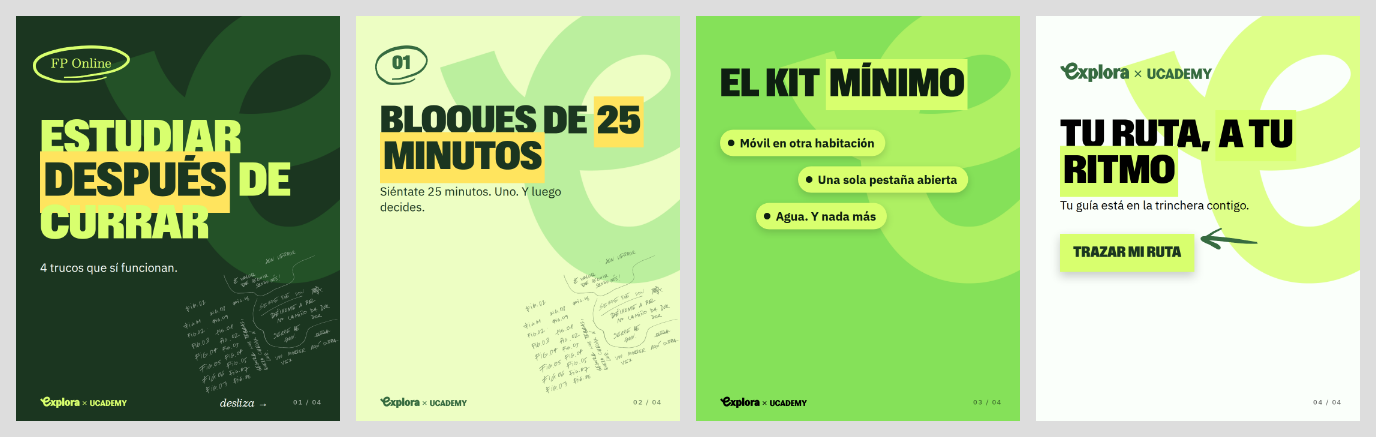
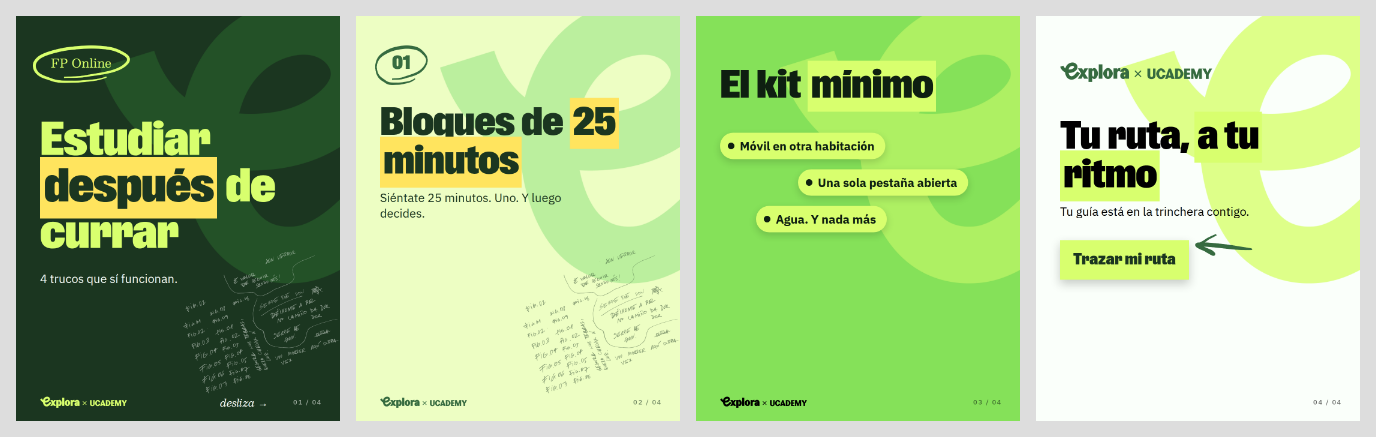
Portada de foto a sangre y titulares en minúscula salvo la inicial
Claude-Session: https://claude.ai/code/session_01H4umwBxSUscNV4SSyo8Euv

diff --git a/carruseles/render.js b/carruseles/render.js
@@ -115,7 +115,7 @@ function cuaderno(s) {
   }
 }
 
-// POSTER: titular gigante en mayúsculas, isotipo enorme de fondo, foto recortada en diagonal, píldoras.
+// POSTER: titular gigante, isotipo enorme de fondo, foto recortada en diagonal, píldoras.
 function poster(s) {
   const deco = s.decoracion === "ninguna" ? "" : `<i class="deco-isotipo"></i>`;
   const foto = s.imagen ? `<img class="foto-diagonal" src="${rutaImagen(s)}" alt="">` : (s.decoracion === "ninguna" ? "" : `<i class="deco-notas"></i>`);
@@ -137,6 +137,13 @@ function poster(s) {
 }
 
 const COMPOSICION = { capas, cuaderno, poster };
+
+// Portada de foto a sangre (como el feed actual): vale para cualquier plantilla con `marco: fondo`.
+const portadaFoto = (s, color) =>
+  `<img class="foto-fondo" src="${rutaImagen(s)}" alt=""><div class="velo"></div>` +
+  `<img class="logo-foto" src="${logo("Verde 03")}" alt="Explora × Ucademy">` +
+  si(s.etiqueta, `<div class="pastilla">${fmt(s.etiqueta)}</div>`) +
+  `<div class="bloque-foto">${titulo(s.titulo, "h1")}${sub(s.subtitulo)}</div>`;
 const logo = (color) => {
   const f = [".png", ".webp", ".svg"].map((e) => join(RAIZ, "assets/logos", `Explora x Ucademy_Horizontal_${color} 1${e}`)).find(existsSync);
   if (!f) throw new Error(`falta el logo Explora x Ucademy_Horizontal_${color} 1 en assets/logos/`);
@@ -145,6 +152,7 @@ const logo = (color) => {
 
 function html(plantilla, color, s, i, total, etiquetaCinta) {
   s._color = color;
+  const fondoFoto = s.tipo === "portada" && s.imagen && s.marco === "fondo";
   const marca = (c) => `<img src="${logo(c)}" alt="Explora × Ucademy">`;
   const pag = `${si(etiquetaCinta, `${esc(etiquetaCinta)} · `)}${dos(i + 1)}`;
   const derecha = s.tipo === "cierre" && s.cinta ? `<span class="cinta-cta">${fmt(s.cinta)}</span>` : `<span class="pag">${pag}</span>`;
@@ -153,9 +161,9 @@ function html(plantilla, color, s, i, total, etiquetaCinta) {
 <link rel="stylesheet" href="${archivo(`plantillas/${plantilla}.css`)}">
 <link rel="stylesheet" href="${archivo("plantillas/colores.css")}">
 <style>${MASCARAS}</style>
-</head><body><section class="slide l-${plantilla} c-${color} tipo-${s.tipo}${s.tipo === "portada" && s.imagen && s.marco !== "portatil" ? " con-foto" : ""}">
+</head><body><section class="slide l-${plantilla} c-${color} tipo-${s.tipo}${fondoFoto ? " foto-sangre" : s.tipo === "portada" && s.imagen && s.marco !== "portatil" ? " con-foto" : ""}">
 <div class="cabecera"><span>${pag}</span>${marca(LOGO_FONDO[color])}</div>
-<div class="contenido">${COMPOSICION[plantilla](s)}</div>${decoracion(s)}
+<div class="contenido">${fondoFoto ? portadaFoto(s, color) : COMPOSICION[plantilla](s)}</div>${decoracion(s)}
 ${i === 0 && total > 1 ? `<div class="desliza">desliza →</div>` : ""}
 <div class="cinta">${plantilla === "cuaderno" && s.cta ? `<span class="cinta-cta">${fmt(s.cta)}</span>` : marca(LOGO_CINTA[color])}${plantilla === "cuaderno" && s.cta ? `<span class="pag">${fmt(s.cinta ?? "")}</span>` : derecha}</div>
 <div class="pie">${marca(LOGO_FONDO[color])}<span class="pag">${dos(i + 1)} / ${dos(total)}</span></div>
@@ -208,6 +216,10 @@ for (const f of ficheros) {
     });
     // Aviso si el texto se sale del área útil (encima de la cinta).
     const sobra = await pagina.evaluate(() => {
+      if (document.querySelector(".foto-sangre")) {
+        const b = document.querySelector(".bloque-foto").getBoundingClientRect();
+        return Math.round(Math.max(b.bottom - 1310, 200 - b.top, 0));
+      }
       const portada = document.querySelector(".tipo-portada");
       const cinta = document.querySelector(".cinta");
       const tope = (cinta.offsetParent ? cinta.getBoundingClientRect().top : 1350) - (portada ? 0 : 20);

diff --git a/carruseles/plantillas/poster.css b/carruseles/plantillas/poster.css
@@ -1,11 +1,11 @@
-/* POSTER · impacto: titular gigante en mayúsculas, isotipo enorme de fondo, foto recortada en
+/* POSTER · impacto: titular gigante, isotipo enorme de fondo, foto recortada en
    diagonal o textura de notas, píldoras con punto. Inspirada en "Antes de elegir una FP". */
 .cinta { display: none; }
 .pie { display: flex; }
 .contenido { inset: 0; padding: 110px 90px 150px var(--m); gap: 0; justify-content: flex-start; }
 .contenido > * { position: relative; z-index: 2; }
 
-.titulo { text-transform: uppercase; font-size: 132px; line-height: .9; letter-spacing: -.01em; word-spacing: .02em; margin-top: 60px; }
+.titulo { font-size: 132px; line-height: .98; letter-spacing: -.02em; word-spacing: .04em; margin-top: 60px; }
 .tipo-portada .titulo { font-size: 158px; margin-top: 110px; }
 .subtitulo, .texto { font-family: var(--cuerpo); font-size: 40px; line-height: 1.3; max-width: 760px; }
 .subtitulo { margin-top: 44px; }
@@ -31,7 +31,7 @@
 .tipo-cierre .contenido { align-items: flex-start; }
 .logo-grande { height: 70px; width: auto; margin: 40px 0 60px; }
 .tipo-cierre .pie img { visibility: hidden; }
-.cta-boton { position: relative; margin-top: 70px; background: var(--cinta-bg); color: var(--cinta-tinta); font-family: var(--titular); font-weight: 900; text-transform: uppercase; font-size: 50px; padding: 30px 110px 32px 44px; box-shadow: 0 14px 30px rgba(0,0,0,.2); }
+.cta-boton { position: relative; margin-top: 70px; background: var(--cinta-bg); color: var(--cinta-tinta); font-family: var(--titular); font-weight: 900; font-size: 54px; padding: 30px 110px 32px 44px; box-shadow: 0 14px 30px rgba(0,0,0,.2); }
 .f-boton { width: 150px; height: 126px; right: -190px; top: -40px; transform: rotate(-35deg); }
 .cta-boton { padding-right: 44px; }
 .desliza { bottom: 44px; right: 240px; }

diff --git a/carruseles/plantillas/base.css b/carruseles/plantillas/base.css
@@ -83,3 +83,19 @@ body { font-family: var(--cuerpo); -webkit-font-smoothing: antialiased; }
 .pie { bottom: 44px; }
 .cabecera img, .pie img { height: 40px; width: auto; }
 .cabecera span, .pie .pag { font-family: var(--cuerpo); font-weight: 500; font-size: 22px; letter-spacing: .16em; text-transform: uppercase; opacity: .6; }
+
+/* PORTADA FOTO A SANGRE (`marco: fondo`): foto completa, velo oscuro abajo, pastilla lima, titular
+   en mayúsculas. Común a las 3 plantillas; es el formato dominante del feed. */
+.foto-sangre .contenido { inset: 0; padding: 0; }
+.foto-sangre .contenido > * { position: absolute; }
+.foto-sangre .cabecera, .foto-sangre .pie, .foto-sangre .cinta, .foto-sangre::before { display: none !important; }
+.foto-sangre { background-image: none !important; }
+.foto-fondo { inset: 0; width: 100%; height: 100%; object-fit: cover; }
+.velo { inset: 0; background: linear-gradient(180deg, rgba(0,0,0,.25) 0%, rgba(0,0,0,0) 22%, rgba(0,0,0,0) 45%, rgba(10,25,14,.85) 100%); }
+.logo-foto { top: 54px; left: 50%; transform: translateX(-50%); height: 50px; width: auto; }
+.pastilla { top: 130px; left: var(--m); background: var(--verde03); color: var(--noche); font-family: var(--cuerpo); font-weight: 700; font-size: 26px; letter-spacing: .14em; text-transform: uppercase; padding: 12px 22px; }
+.bloque-foto { left: var(--m); right: 80px; bottom: 110px; }
+.foto-sangre .titulo { font-size: 124px; line-height: 1.04; letter-spacing: -.02em; color: var(--verde03); }
+.foto-sangre .titulo em { background: var(--verde03); color: var(--noche); }
+.foto-sangre .subtitulo { font-family: var(--cuerpo); font-size: 38px; color: #fff; margin-top: 30px; max-width: 800px; }
+.foto-sangre .desliza { color: #fff; bottom: 44px; }

diff --git a/carruseles/CLAUDE.md b/carruseles/CLAUDE.md
@@ -15,18 +15,20 @@ Nunca se diseña slide a slide: se escribe el YAML y se renderiza.
 Se combinan libremente, a nivel de carrusel o por slide (`plantilla:` y `color:` dentro de una slide).
 Fuente de verdad visual: explorafp.com y las referencias de Sandra, por encima del brandbook (en revisión).
 Evitar composiciones planas de texto sobre fondo: Sandra las ve genéricas.
+**Titulares siempre en minúscula salvo la inicial** (nunca en mayúsculas), también en el YAML.
+Portadas: el feed actual es mayoritariamente foto a sangre → `marco: fondo` en la portada cuando haya foto.
 
 | plantilla | estilo | referencia |
 |---|---|---|
 | `capas` | caja de color sobre foto o papel torcido, flechas, números rodeados, post-it, cinta | plantilla de dosier |
 | `cuaderno` | libreta con cuadrícula y lomo, logo arriba, número fantasma, checklist, cinta solo en el cierre | "La parte mala de estudiar online" (favorita) |
-| `poster` | titular gigante en mayúsculas, isotipo enorme de fondo, foto en diagonal, píldoras, logo abajo | "Antes de elegir una FP" |
+| `poster` | titular gigante, isotipo enorme de fondo, foto en diagonal, píldoras, logo abajo | "Antes de elegir una FP" |
 
 Colores (`plantillas/colores.css`): `noche` (verde noche), `lima` (lima claro), `verde` (verde vivo), `blanco`.
 Muestrarios en `contenido/muestrario-*.yml` (una composición, un color por slide).
 
 ## Tipos de slide (valen en las 3 composiciones)
-- `portada`: etiqueta (óvalo), antetitulo, titulo, subtitulo, nota, imagen (foto).
+- `portada`: etiqueta (óvalo), antetitulo, titulo, subtitulo, nota, imagen (foto). Con `marco: fondo` → foto a sangre con pastilla lima (vale en las 3 plantillas).
 - `contenido`: etiqueta, titulo, antetitulo, numero, texto, imagen (portátil en capas/cuaderno; foto en poster), nota.
 - `lista`: etiqueta, titulo, antetitulo, items (2-4). capas → tarjetas; cuaderno → checklist; poster → píldoras.
 - `dato`: antetitulo, cifra, texto, fuente — **nunca inventar cifras; siempre con fuente real**.
